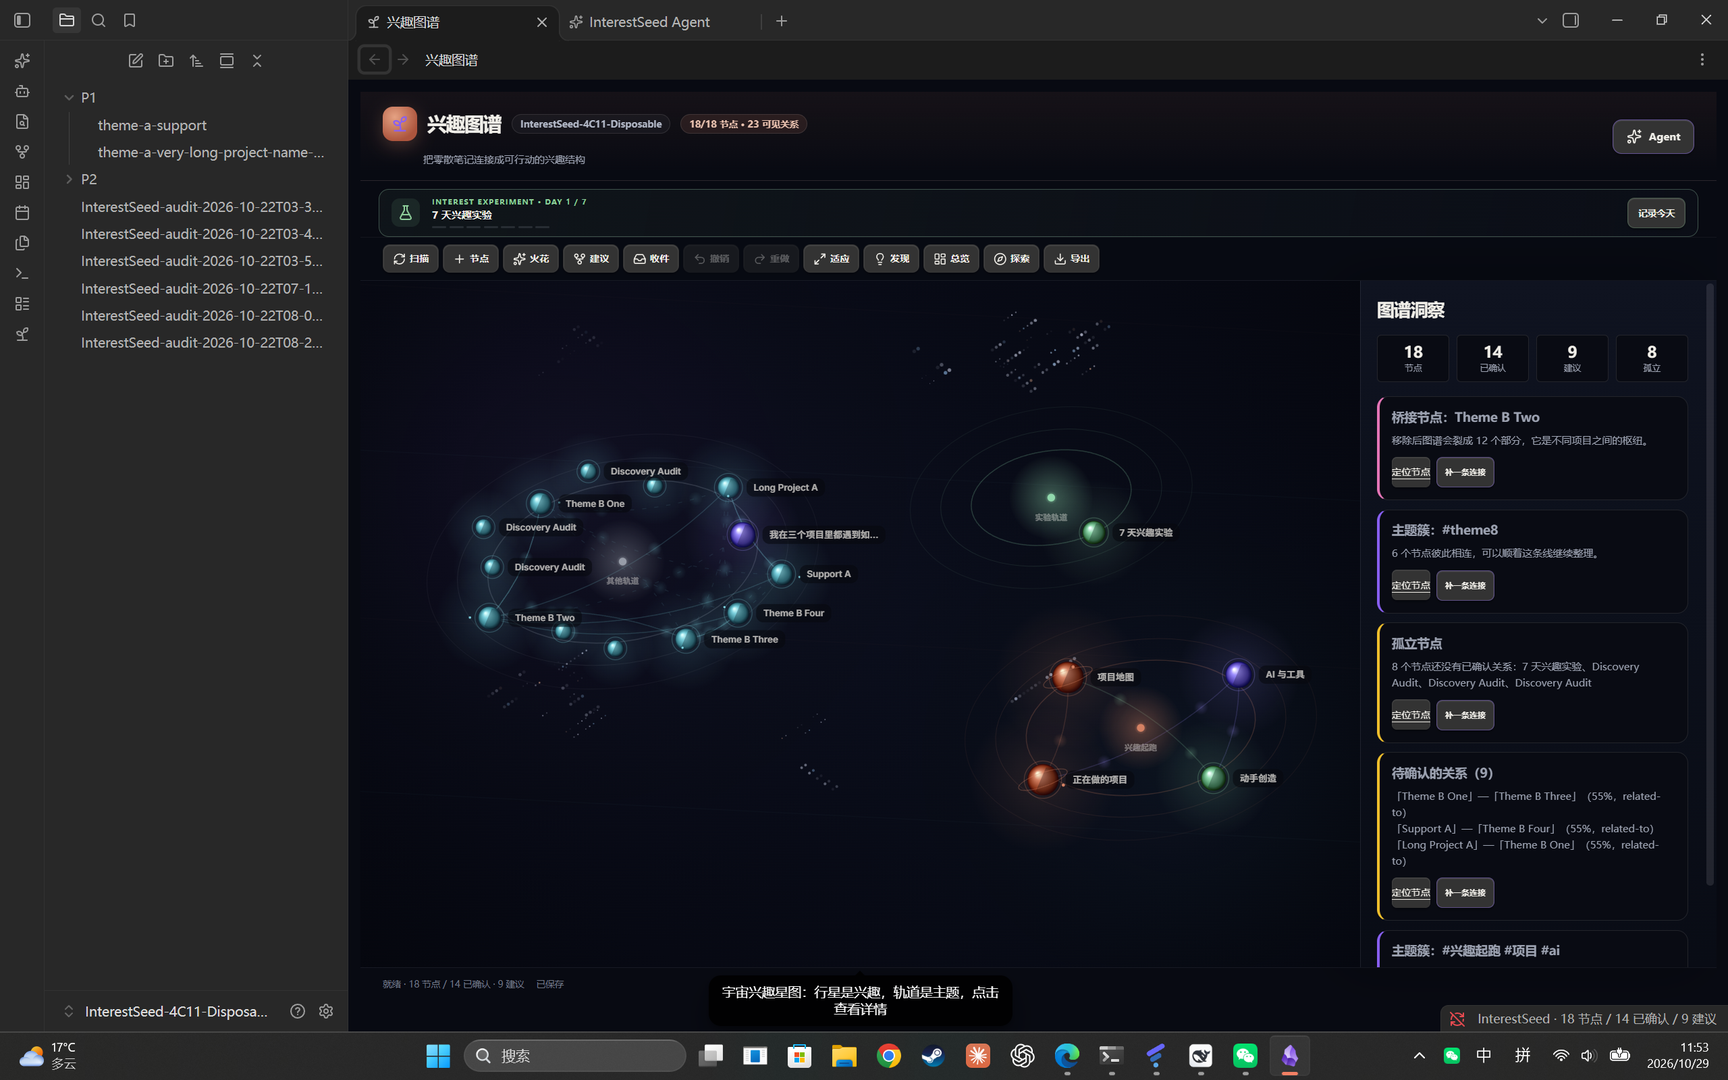
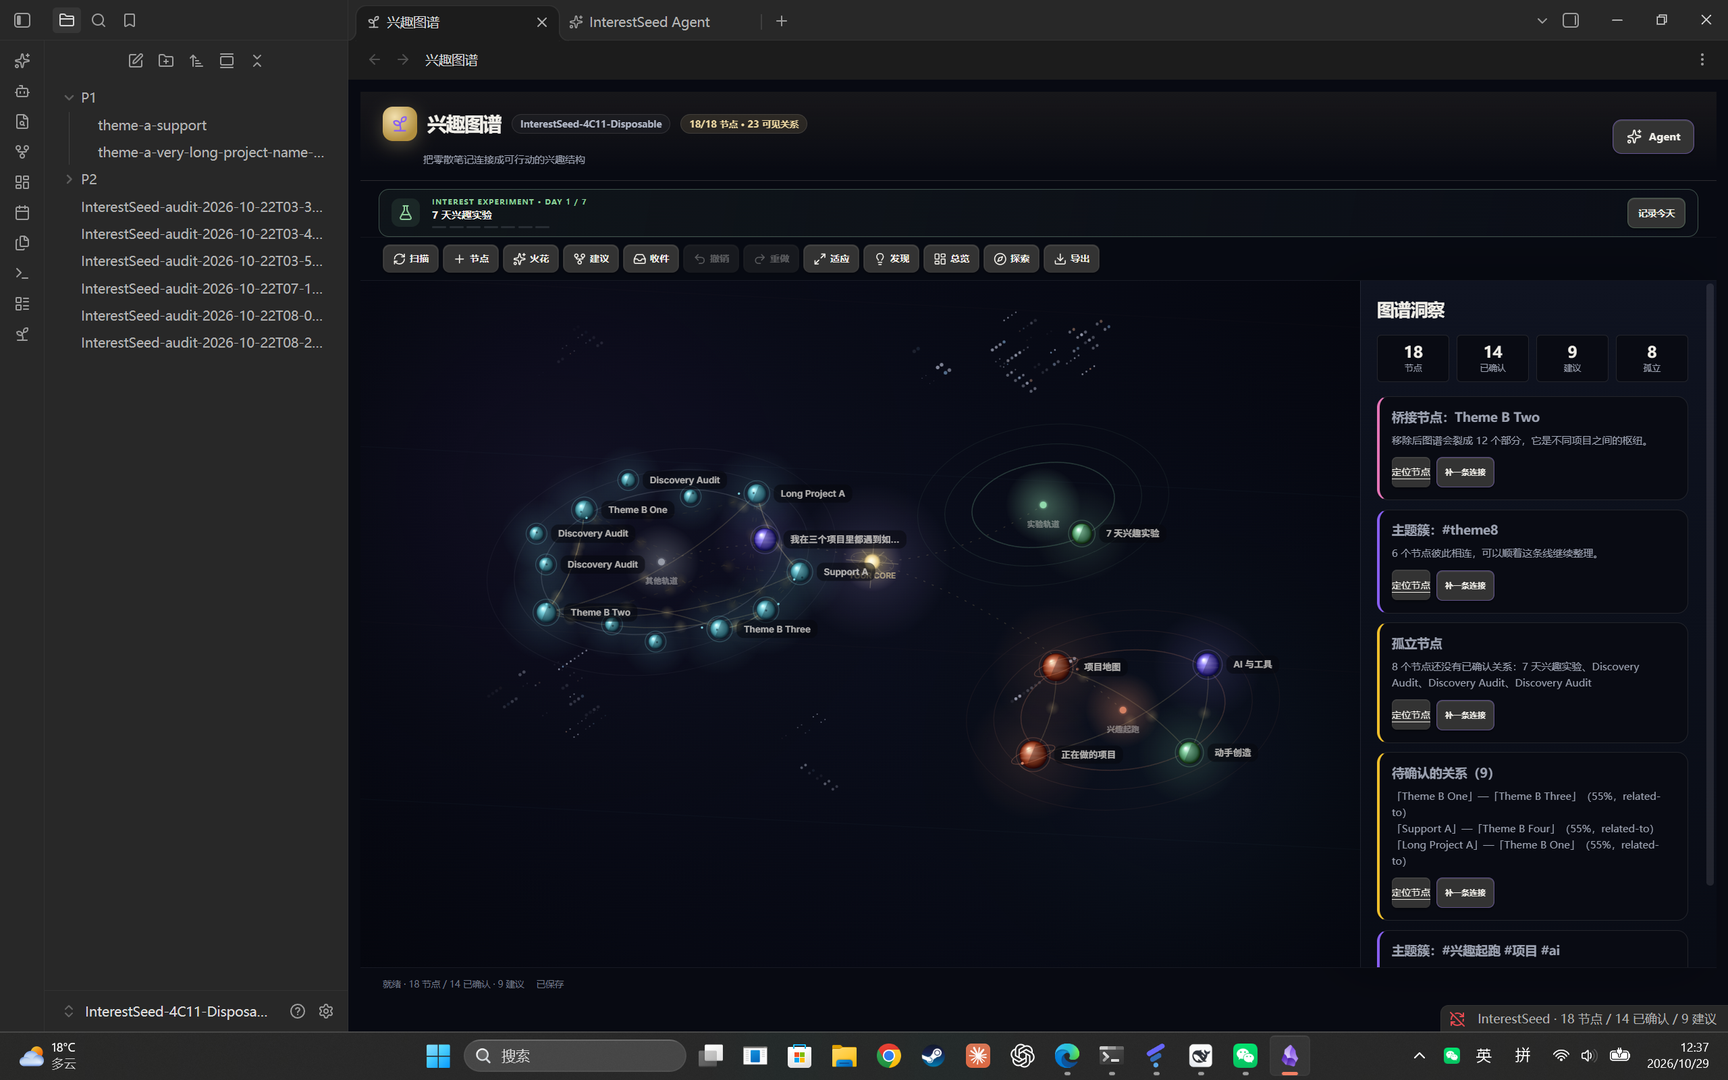
Make the workspace graph-first and the 7-day experiment rigorous

diff --git a/src/ui/CosmicGraphCanvas.ts b/src/ui/CosmicGraphCanvas.ts
@@ -138,6 +138,7 @@ export class CosmicGraphCanvas {
   private moved = false;
   private lastPointer = { x: 0, y: 0 };
   private hasGraph = false;
+  private viewportInitialized = false;
   private resizeObserver: ResizeObserver | null = null;
   private viewportTimer: number | null = null;
   private time = 0;
@@ -290,16 +291,21 @@ export class CosmicGraphCanvas {
 
   setViewport(viewport: GraphViewport | undefined): void {
     if (!viewport) return;
+    if (this.nodes.length > 0 && this.nodes.length <= 45 && !this.viewportInitialized) {
+      this.viewportInitialized = true;
+      this.zoomToFit();
+      return;
+    }
     if (this.nodes.length > 0 && this.nodes.length <= 45 && viewport.zoom < 0.55) {
       this.zoomToFit();
       return;
     }
-    const hasVisibleNode = this.nodes.some((node) => {
+    const visibleCount = this.nodes.filter((node) => {
       const x = node.x * viewport.zoom + viewport.panX;
       const y = node.y * viewport.zoom + viewport.panY;
       return x > -160 && x < this.width + 160 && y > -160 && y < this.height + 160;
-    });
-    if (this.nodes.length > 0 && !hasVisibleNode) {
+    }).length;
+    if (this.nodes.length > 0 && visibleCount < this.nodes.length * 0.8) {
       this.zoomToFit();
       return;
     }
@@ -384,6 +390,8 @@ export class CosmicGraphCanvas {
     ctx.setTransform(this.dpr, 0, 0, this.dpr, 0, 0);
     ctx.clearRect(0, 0, width, height);
     this.drawBackdrop();
+    this.drawCoreThreads();
+    this.drawCore();
     this.drawOrbits();
     this.drawEdges();
     this.drawClusterStars();
@@ -453,6 +461,97 @@ export class CosmicGraphCanvas {
       ctx.stroke();
     }
     ctx.globalAlpha = 1;
+  }
+
+  private drawCoreThreads(): void {
+    const coreX = (WORLD_WIDTH / 2) * this.zoom + this.panX;
+    const coreY = (WORLD_HEIGHT / 2) * this.zoom + this.panY;
+    let index = 0;
+    for (const cluster of this.clusters.values()) {
+      const x = cluster.x * this.zoom + this.panX;
+      const y = cluster.y * this.zoom + this.panY;
+      const mx = (coreX + x) / 2;
+      const my = (coreY + y) / 2 - (index % 2 === 0 ? 34 : -26);
+      this.ctx.save();
+      this.ctx.strokeStyle = 'rgba(232,200,132,.20)';
+      this.ctx.lineWidth = 0.8;
+      this.ctx.setLineDash([2, 7]);
+      this.ctx.beginPath();
+      this.ctx.moveTo(coreX, coreY);
+      this.ctx.quadraticCurveTo(mx, my, x, y);
+      this.ctx.stroke();
+      this.ctx.setLineDash([]);
+      this.ctx.fillStyle = 'rgba(232,200,132,.7)';
+      this.ctx.beginPath();
+      this.ctx.arc(x, y, 1.4, 0, Math.PI * 2);
+      this.ctx.fill();
+      this.ctx.restore();
+      index += 1;
+    }
+  }
+
+  private drawCore(): void {
+    const x = (WORLD_WIDTH / 2) * this.zoom + this.panX;
+    const y = (WORLD_HEIGHT / 2) * this.zoom + this.panY;
+    const pulse = 0.94 + Math.sin(this.time * 1.2) * 0.06;
+    const haloRadius = 138 * this.zoom;
+    const halo = this.ctx.createRadialGradient(x, y, 0, x, y, haloRadius);
+    halo.addColorStop(0, 'rgba(255,244,210,.88)');
+    halo.addColorStop(0.08, 'rgba(255,217,143,.44)');
+    halo.addColorStop(0.38, 'rgba(189,169,255,.10)');
+    halo.addColorStop(1, 'rgba(189,169,255,0)');
+    this.ctx.fillStyle = halo;
+    this.ctx.beginPath();
+    this.ctx.arc(x, y, haloRadius, 0, Math.PI * 2);
+    this.ctx.fill();
+
+    this.ctx.save();
+    this.ctx.globalAlpha = 0.28;
+    this.ctx.strokeStyle = '#f0d6a0';
+    this.ctx.lineWidth = 0.8;
+    for (let ray = 0; ray < 8; ray += 1) {
+      const angle = (ray / 8) * Math.PI * 2 + this.time * 0.03;
+      const length = (ray % 2 === 0 ? 46 : 27) * this.zoom;
+      this.ctx.beginPath();
+      this.ctx.moveTo(x + Math.cos(angle) * 8 * this.zoom, y + Math.sin(angle) * 8 * this.zoom);
+      this.ctx.lineTo(x + Math.cos(angle) * length, y + Math.sin(angle) * length);
+      this.ctx.stroke();
+    }
+    this.ctx.restore();
+
+    this.ctx.save();
+    this.ctx.globalAlpha = 0.22;
+    this.ctx.strokeStyle = 'rgba(232,200,132,.72)';
+    this.ctx.lineWidth = 0.7;
+    this.ctx.beginPath();
+    this.ctx.ellipse(x, y, 26 * this.zoom, 10 * this.zoom, -0.28, 0, Math.PI * 2);
+    this.ctx.stroke();
+    this.ctx.beginPath();
+    this.ctx.ellipse(x, y, 38 * this.zoom, 15 * this.zoom, 0.22, 0, Math.PI * 2);
+    this.ctx.stroke();
+    this.ctx.restore();
+
+    const nucleus = this.ctx.createRadialGradient(
+      x - 2 * this.zoom,
+      y - 2 * this.zoom,
+      0,
+      x,
+      y,
+      15 * this.zoom,
+    );
+    nucleus.addColorStop(0, '#fffdf4');
+    nucleus.addColorStop(0.36, '#fff0c4');
+    nucleus.addColorStop(0.74, '#e8c884');
+    nucleus.addColorStop(1, 'rgba(232,200,132,0)');
+    this.ctx.fillStyle = nucleus;
+    this.ctx.beginPath();
+    this.ctx.arc(x, y, 16 * this.zoom * pulse, 0, Math.PI * 2);
+    this.ctx.fill();
+
+    this.ctx.font = '600 8px "Inter","Noto Sans SC",sans-serif';
+    this.ctx.textAlign = 'center';
+    this.ctx.fillStyle = 'rgba(240,214,160,.65)';
+    this.ctx.fillText('YOUR CORE', x, y + 25 * this.zoom);
   }
 
   private drawOrbits(): void {
@@ -526,13 +625,13 @@ export class CosmicGraphCanvas {
     const activeId = this.selectedId ?? this.hoveredId;
     for (const edge of this.edges) {
       const curve = this.edgeCurve(edge);
-      const style = TYPE_STYLE[edge.source.type] ?? TYPE_STYLE.topic;
+      const stroke = edge.edge.status === 'suggested' ? '#b98f3c' : '#e8c884';
       const active =
         activeId !== null &&
         (edge.source.id === activeId || edge.target.id === activeId);
       this.ctx.save();
       this.ctx.globalAlpha = active ? 0.95 : edge.edge.status === 'suggested' ? 0.20 : 0.33;
-      this.ctx.strokeStyle = active ? style.color : `${style.color}88`;
+      this.ctx.strokeStyle = active ? stroke : `${stroke}88`;
       this.ctx.lineWidth = active ? 1.7 : edge.edge.status === 'suggested' ? 0.8 : 1.0;
       if (edge.edge.status === 'suggested') this.ctx.setLineDash([4, 8]);
       this.ctx.beginPath();
@@ -553,8 +652,8 @@ export class CosmicGraphCanvas {
           2 * (1 - p) * p * curve.cy +
           p * p * curve.by;
         const glow = this.ctx.createRadialGradient(x, y, 0, x, y, 7);
-        glow.addColorStop(0, active ? style.color : `${style.color}aa`);
-        glow.addColorStop(1, `${style.color}00`);
+        glow.addColorStop(0, active ? stroke : `${stroke}aa`);
+        glow.addColorStop(1, `${stroke}00`);
         this.ctx.fillStyle = glow;
         this.ctx.beginPath();
         this.ctx.arc(x, y, 7, 0, Math.PI * 2);
@@ -567,7 +666,7 @@ export class CosmicGraphCanvas {
         this.ctx.fillStyle = 'rgba(5,7,13,.82)';
         this.roundRect(curve.cx - tw / 2 - 6, curve.cy - 12, tw + 12, 17, 7);
         this.ctx.fill();
-        this.ctx.fillStyle = style.color;
+        this.ctx.fillStyle = stroke;
         this.ctx.textAlign = 'center';
         this.ctx.fillText(text, curve.cx, curve.cy);
       }
@@ -613,6 +712,36 @@ export class CosmicGraphCanvas {
     this.ctx.beginPath();
     this.ctx.arc(p.x, p.y, r, 0, Math.PI * 2);
     this.ctx.fill();
+
+    this.ctx.save();
+    this.ctx.beginPath();
+    this.ctx.arc(p.x, p.y, r * 0.96, 0, Math.PI * 2);
+    this.ctx.clip();
+    if (node.type === 'topic' || node.type === 'project') {
+      for (let band = 0; band < 3; band += 1) {
+        const bandY = p.y - r * 0.46 + band * r * 0.36;
+        this.ctx.fillStyle = `rgba(255,255,255,${0.045 + band * 0.018})`;
+        this.ctx.beginPath();
+        this.ctx.ellipse(p.x, bandY, r * 1.03, r * 0.10, 0, 0, Math.PI * 2);
+        this.ctx.fill();
+      }
+    } else if (node.type === 'document' || node.type === 'image') {
+      for (let crater = 0; crater < 4; crater += 1) {
+        const angle = hash(`${node.id}-crater-${crater}`) * Math.PI * 2;
+        const distance = hash(`${node.id}-distance-${crater}`) * r * 0.68;
+        this.ctx.fillStyle = 'rgba(3,7,14,.14)';
+        this.ctx.beginPath();
+        this.ctx.arc(
+          p.x + Math.cos(angle) * distance,
+          p.y + Math.sin(angle) * distance,
+          Math.max(1, r * (0.06 + hash(`${node.id}-size-${crater}`) * 0.06)),
+          0,
+          Math.PI * 2,
+        );
+        this.ctx.fill();
+      }
+    }
+    this.ctx.restore();
 
     this.ctx.fillStyle = 'rgba(2,4,9,.28)';
     this.ctx.beginPath();

diff --git a/src/styles.css b/src/styles.css
@@ -262,9 +262,9 @@
 /* ------------------------------------------------------------- 宇宙视图主题 */
 
 .interestseed-root.is-cosmic {
-  --is-accent: #e18061;
-  --is-accent-2: #5ed1df;
-  --is-accent-soft: rgba(225, 128, 97, 0.13);
+  --is-accent: #e8c884;
+  --is-accent-2: #bda9ff;
+  --is-accent-soft: rgba(232, 200, 132, 0.13);
   --is-border: rgba(210, 218, 238, 0.12);
   --is-surface: #0b0f19;
   --is-surface-raised: #111826;
@@ -283,17 +283,17 @@
 
 .interestseed-root.is-cosmic .interestseed-header {
   border-bottom-color: rgba(210, 218, 238, 0.10);
-  background: linear-gradient(180deg, rgba(225, 128, 97, 0.07), transparent 92%);
+  background: linear-gradient(180deg, rgba(232, 200, 132, 0.07), transparent 92%);
 }
 
 .interestseed-root.is-cosmic .interestseed-heading-icon {
-  background: radial-gradient(circle at 35% 30%, #f0a181, #b9543b 72%);
-  box-shadow: 0 5px 18px rgba(225, 128, 97, 0.28);
+  background: radial-gradient(circle at 35% 30%, #f6dfad, #b98f3c 72%);
+  box-shadow: 0 5px 18px rgba(232, 200, 132, 0.28);
 }
 
 .interestseed-root.is-cosmic .interestseed-heading-count {
-  color: #f0c0ad;
-  background: rgba(225, 128, 97, 0.12);
+  color: #f0d6a0;
+  background: rgba(232, 200, 132, 0.12);
 }
 
 .interestseed-root.is-cosmic .interestseed-heading-vault {

diff --git a/CHANGELOG.md b/CHANGELOG.md
@@ -8,7 +8,7 @@
 - Strict 7-day interest experiment: daily evidence, 1–5 interest/energy scores, one check-in per calendar day, and a completion review.
 - One Agent entry for connecting your own DSH-compatible agent via ACP.
 - Evidence-backed draft graph; no silent writeback; undoable application.
-- Obsidian main view now uses the cosmic canvas by default: planets, orbits, nebulae and travelling light.\n- Standalone cosmic viewer: planets, orbits, nebulae, particle trails and glass HUD.\n- Portable Agent Skill package with a single-file `star-map.html` renderer.\n- 40-second programmatic launch film and launch documentation.
+- Obsidian main view now uses the cosmic canvas by default: central star core, planetary systems, gold constellation threads, nebulae and travelling light.\n- Standalone cosmic viewer: planets, orbits, nebulae, particle trails and glass HUD.\n- Portable Agent Skill package with a single-file `star-map.html` renderer.\n- 40-second programmatic launch film and launch documentation.
 
 ## 0.2.0
 

diff --git a/README.md b/README.md
@@ -126,7 +126,9 @@ InterestSeed 让你：
 
 ![Cosmic Viewer](assets/plugin-cosmic.png)
 
-打开 InterestSeed 就是宇宙星图：行星是兴趣，轨道是主题，粒子流是关系。选中、拖拽、缩放、筛选、详情面板都在 Obsidian 内完成。单文件 HTML Viewer 只作为 Agent Skill 的便携输出，不是主体验。
+打开 InterestSeed 就是一张个人宇宙：中心是星核，外围是主题行星系统，行星是兴趣，金色星座线是关系。参考了 `neural-creator-dashboard` 的视觉结构，但没有照搬成“神经网络节点”，而是保留行星的实体感与轨道语法。
+
+选中、拖拽、缩放、筛选、详情面板都在 Obsidian 内完成。单文件 HTML Viewer 只作为 Agent Skill 的便携输出，不是主体验。
 
 ### 兴趣起跑
 

diff --git a/RELEASE_NOTES_1.0.0.md b/RELEASE_NOTES_1.0.0.md
@@ -9,7 +9,7 @@
 - **图谱缺口教练**：从孤立节点和桥接节点出发，补一条真实连接；
 - **严谨的 7 天兴趣实验**：每日真实观察、兴趣强度/精力评分、一天一条记录，7 条完成才复盘；
 - **Agent 单入口**：通过 DSH ACP 连接你自己的 Agent、工具、沙箱和权限；
-- **宇宙星图（插件内默认）**：Obsidian 打开即见行星、轨道、星云、粒子流和动态 HUD；
+- **宇宙星图（插件内默认）**：中心星核、主题行星系统、金色星座线、星云与粒子流；Obsidian 打开即见；
 - **Agent Skill 便携星图**：Skill 仍可生成单文件 `star-map.html`，供没有 Obsidian 的用户使用。
 
 ## Agent Skill（无 Obsidian 时的便携输出）
